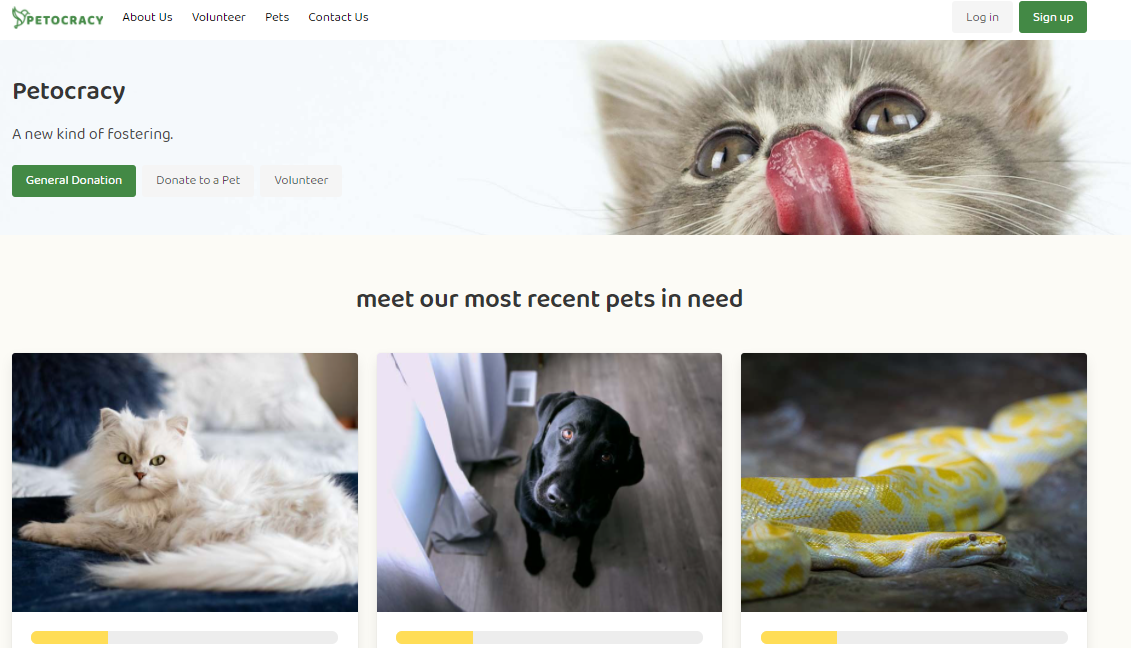
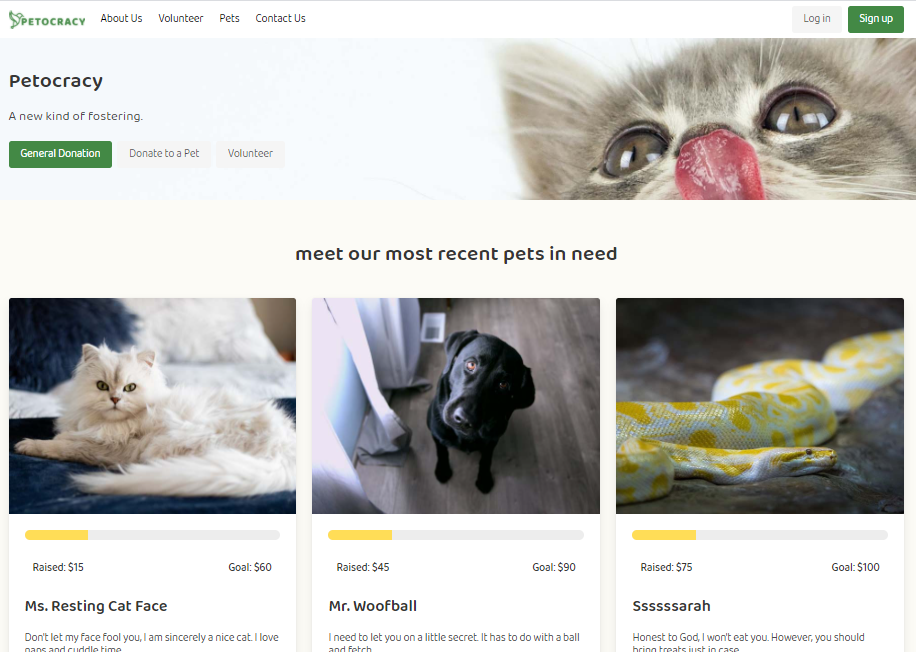
Added 8 project cards

diff --git a/src/components/Project/index.js b/src/components/Project/index.js
@@ -1,12 +1,19 @@
 import React from "react";
 import "./style.css";
+import { Link } from "react-router-dom";
 import foodastic from "./foodastic-screenshot.PNG";
 import petocracy from "./petocracy-screenshot.PNG";
-
+import workday from "./workday-screenshot.PNG";
+import employee from "./employee-screenshot.PNG";
+import budget from "./budget-screenshot.PNG";
+import burger from "./burger-screenshot.PNG";
+import workout from "./workout-screenshot.PNG";
+import weather from "./weather-screenshot.PNG";
+import password from "./password-screenshot.PNG";
 
 function Project(props) {
 
-    const projects = [foodastic, petocracy];
+    const projects = [foodastic,  password, petocracy, employee, workout, burger,  weather, budget, workday ];
     const src = projects[parseInt(props.id - 1)];
     console.log(src);
 
@@ -14,19 +21,23 @@ function Project(props) {
       <div className="row">
         <div className="col-4">
           <div className="card">
-      <div className="img-container">
+      <div className="img-container align-middle">
         <img alt={props.name}  src={src}/>
+        <div>{props.description}</div>
       </div>
       <div className="content">
         <ul>
           <li>
-            <strong>Name:</strong> {props.name}
+            <a href={props.deployed} ><strong><h4 className="turquoise-text">{props.name}</h4></strong>
+            </a>
+          </li>
+
+          <li>
+            {props.simple}
           </li>
           <li>
-            <strong>Deployed Link:</strong> {props.deployed}
-          </li>
-          <li>
-            <strong>GitHub Repo:</strong> {props.repo}
+            <a href={props.repo} className="purple-text" ><strong>{props.name} Github Repo</strong>
+            </a>
           </li>
         </ul>
       </div>

diff --git a/src/pages/Portfolio/index.js b/src/pages/Portfolio/index.js
@@ -13,7 +13,7 @@ class Portfolio extends Component {
         return (
             <div>
                 <div className="portfolio">
-                    <h1>Projects</h1>
+                    <h1 className="underlined-text">Projects</h1>
                     <div className="container project-wrapper">
 
                         {this.state.projects.map(project => (
@@ -23,7 +23,9 @@ class Portfolio extends Component {
                             name={project.name}
                             deployed={project.deployed}
                             repo={project.repo}
+                            // description={project.description}
                             src={project.src}
+                            simple={project.simple}
                         />
                         ))}
                     </div>

diff --git a/src/components/Project/style.css b/src/components/Project/style.css
@@ -1,7 +1,8 @@
 .card {
-    background: #fff;
+    /* background: #fff; */
+    background: black !important;
     border-radius: 2px;
-    height: 325px;
+    height: 425px;
     margin: 1rem;
     position: relative;
     width: 325px;
@@ -10,14 +11,17 @@
   }
 
   .card > .img-container {
-    height: 60%;
+    height: 100%;
     overflow: hidden;
     text-align: center;
-    background:#6CADDC;
+    display: flex;
+    align-items: center; /* vertical */
+    justify-content: center; /* horizontal */
   }
   .card > .img-container > img {
     max-height:100%;
     width:auto;
+     /* object-fit: fill; */
   }
 
   .card > .content {

diff --git a/src/App.css b/src/App.css
@@ -77,8 +77,17 @@ h3 {
 
 }
 
+h4 {
+  font-size: 20px;
+
+}
+
 .purple-text {
   color:#e060e7;
+}
+
+.turquoise-text {
+  color:#60e0d8;
 }
 
 .center {
@@ -89,6 +98,11 @@ h3 {
   color:#60e0d8;
   font-weight: bold;
   font-family: 'Montserrat', sans-serif;
+}
+
+.underlined-text {
+  text-decoration: underline #e060e7 2px;
+
 }
 
 .big-text {

diff --git a/src/pages/Portfolio/style.css b/src/pages/Portfolio/style.css
@@ -1,7 +1,7 @@
 .portfolio {
     height: 100%;
     width: 100%;
-    padding-top:30px;
+    padding-top:80px;
     background-color: #101010 !important;
     text-align: center;
 }
@@ -9,7 +9,6 @@
 .project-wrapper {
 
         padding-top: 50px;
-
         height: 100%;
         display: flex;
         flex-flow: row wrap;

diff --git a/src/pages/About/style.css b/src/pages/About/style.css
@@ -2,6 +2,7 @@
     /* min-height: 100%; */
     height: 100vh;
     width: 100%;
+    margin-bottom:50px;
     padding-top:30px;
     background-color: #101010 !important;
     text-align: center;
